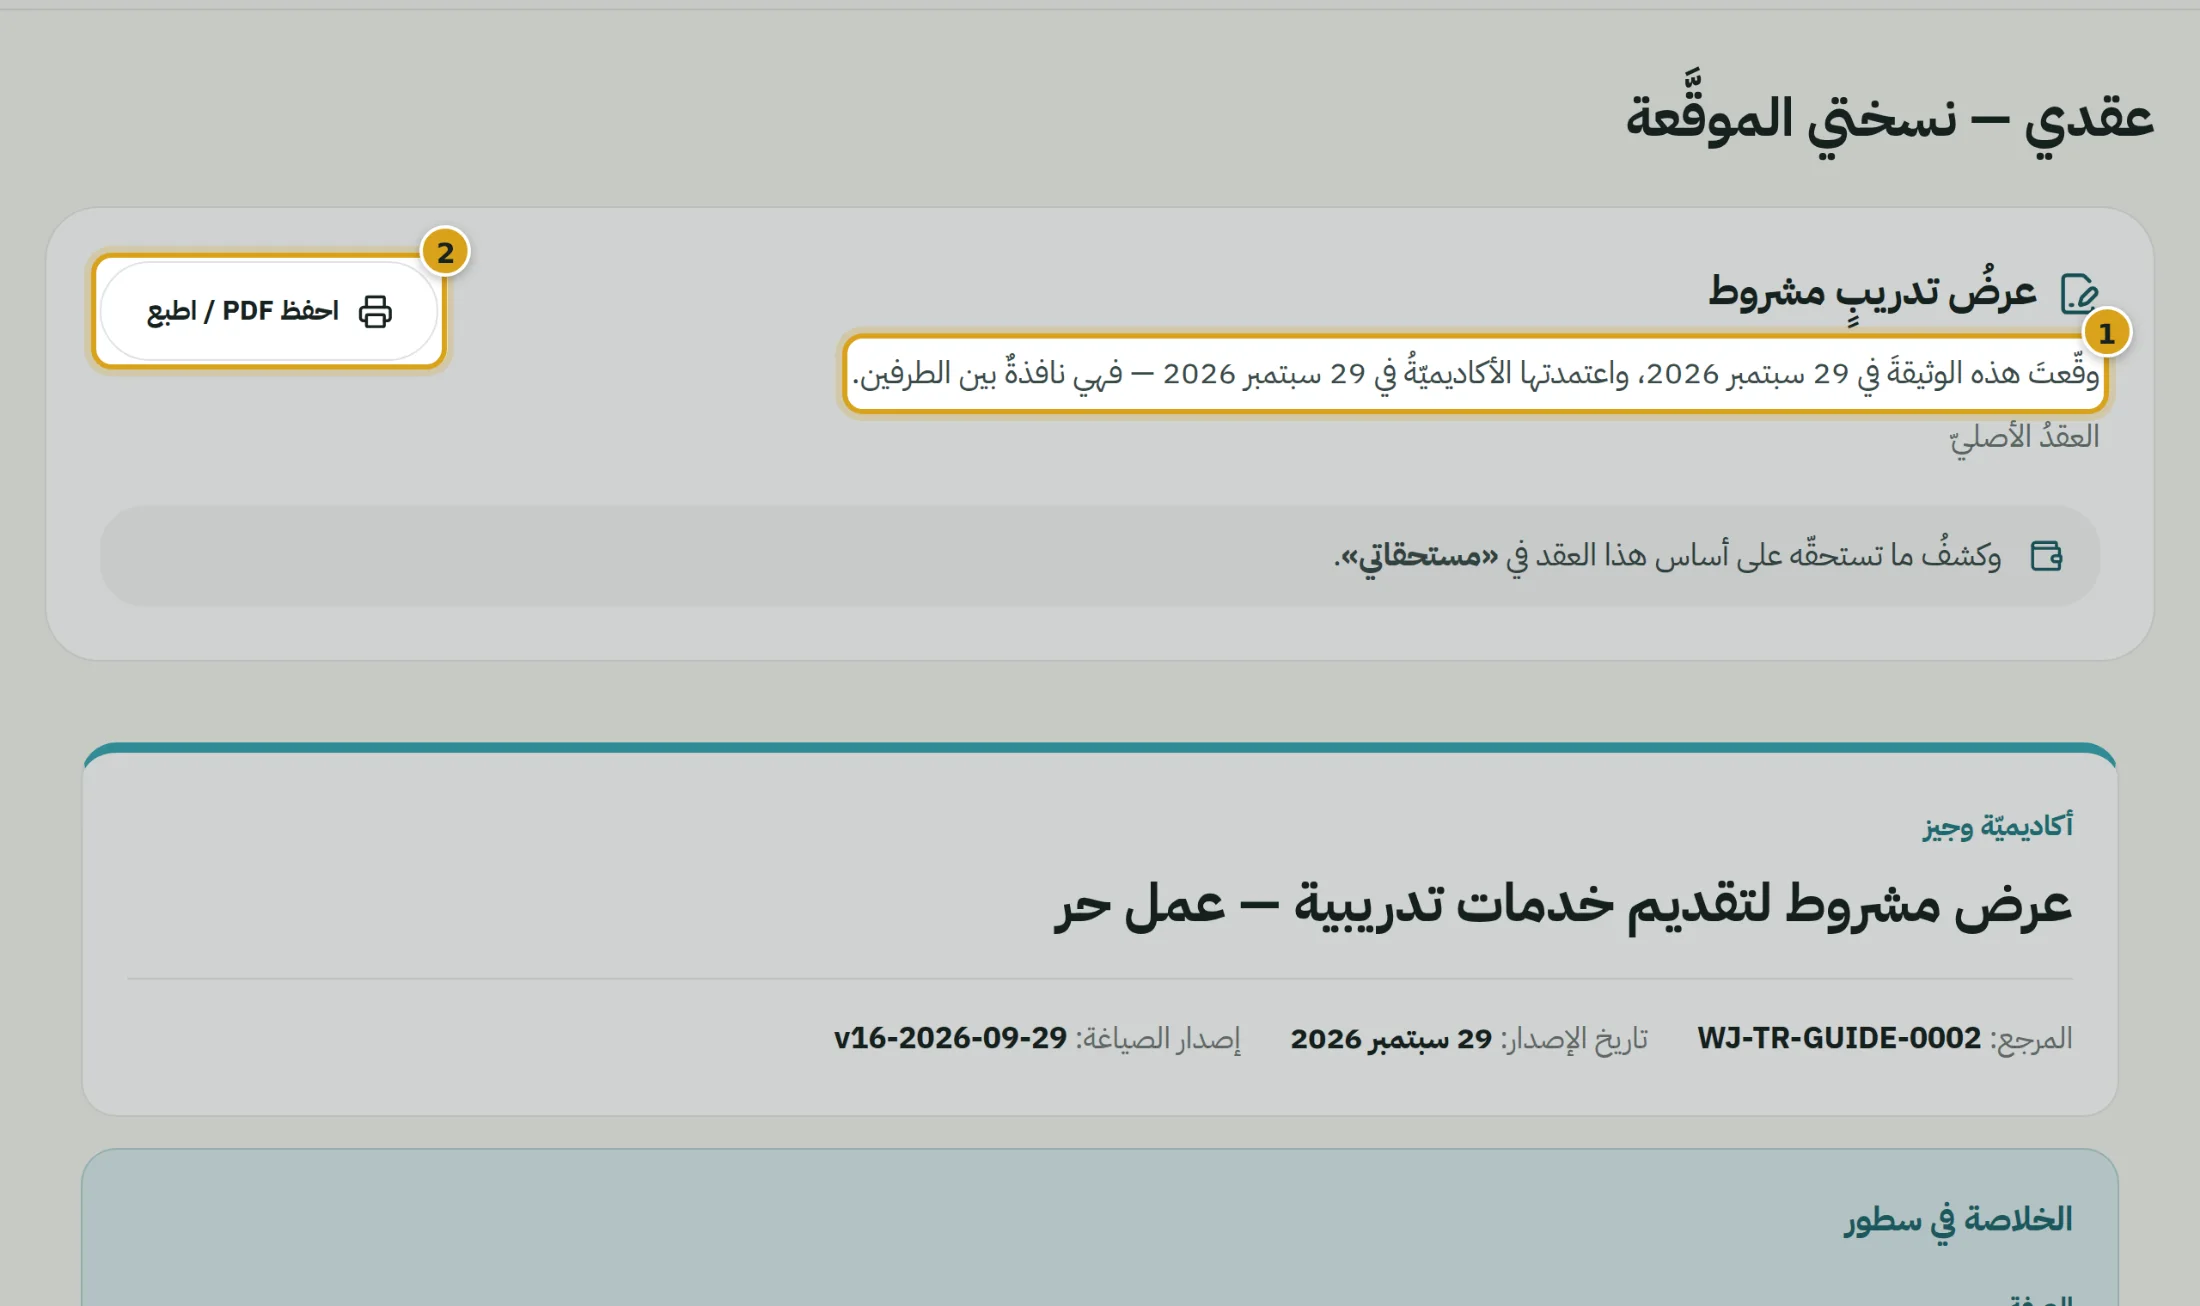
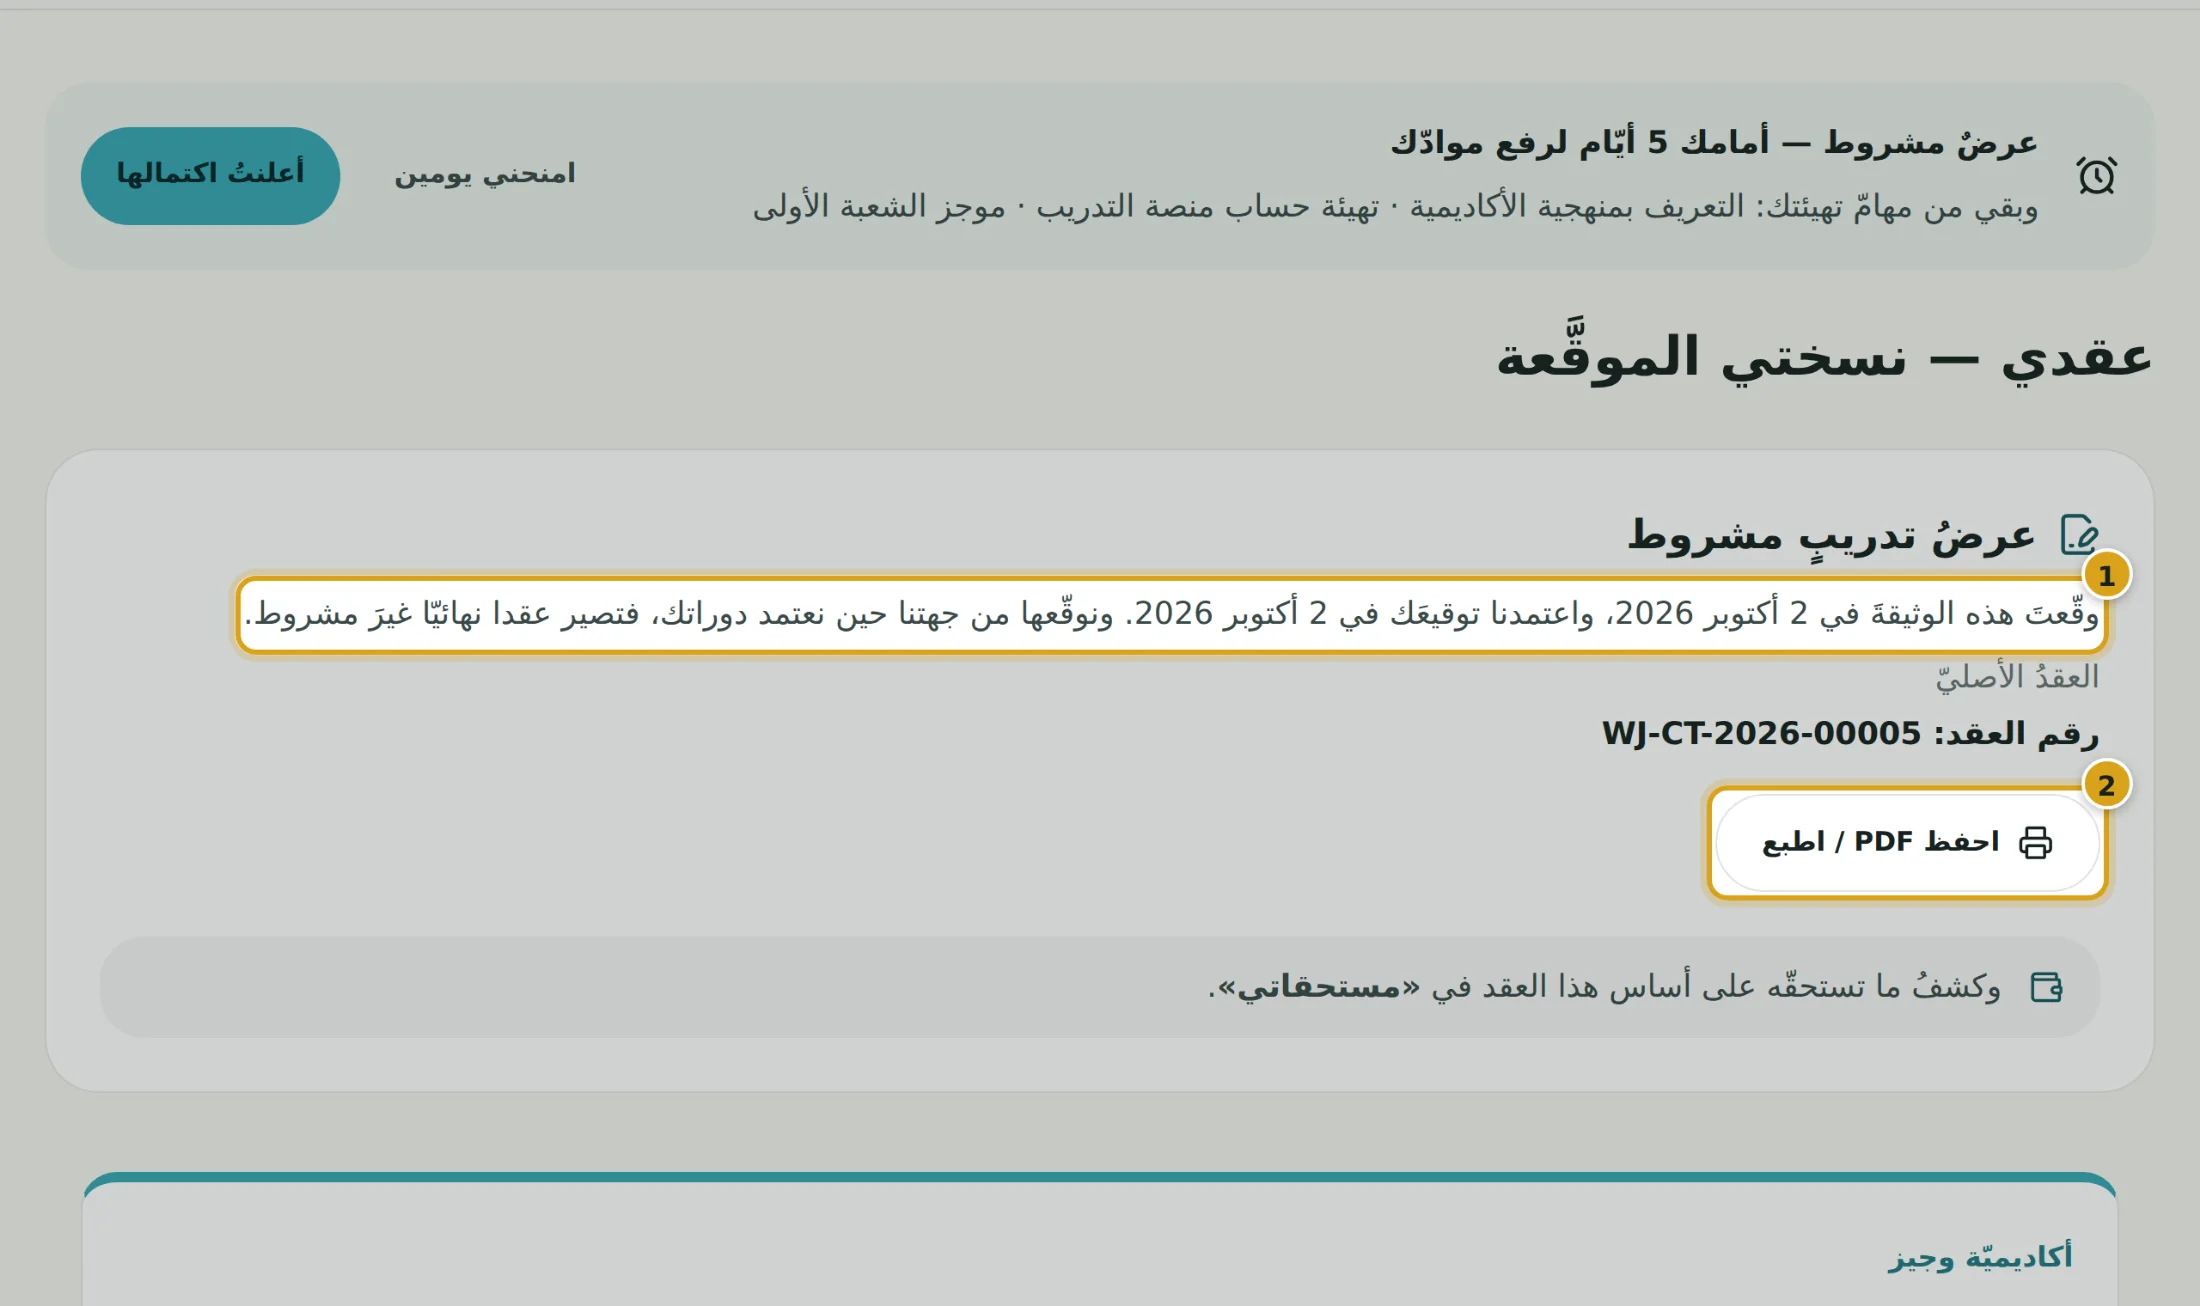
دليلُ المدرّب: صورةُ «عقدي» من طور الموادّ — «ونوقّعها من جهتنا حين نعتمد دوراتك»
كانت اللقطةُ من المدرّب النشط وعليها «واعتمدتها الأكاديميّةُ في… — فهي نافذةٌ بين
الطرفين» (التُقطت ٢٩ سبتمبر، وعليها رقمُ إصدار الصياغة الذي أُخفي بعدها). وقارئُ
الدليل في طور الموادّ: اعتمدنا توقيعَه ولم نوقّع العرض — فكان يرى في دليله غيرَ ما
يراه في بوّابته، وهو بعينه ما قرّر صاحبُ المنصّة نقضَه: لا نوقّع قبل أن نعتمد دوراته.

· capture.ts: لقطةُ `contract` تُصوَّر بحساب من اعتُمد توقيعُه الآن، وعلامتُها (1)
  على «ونوقّعها من جهتنا حين نعتمد دوراتك».
· content.ts: شرحُ الصورة «1 متى وقّعتَه ومتى اعتمدنا توقيعَك — ونوقّعه نحن حين
  نعتمد دوراتك».
· contract.webp أُعيد التقاطُها بـ`guide:shots --only contract` — والأبعادُ كما هي
  فلم يتغيّر البيان.

ولا يُكمل `guide:seed` بذرَ النشط: يقف عند خطّة الشعبة («ضع مشروعَ التخرّج») منذ صار
المشروعُ إلزاميّا (974aa864). عطبٌ قائمٌ خارج هذا التغيير، ولا يمسّ هذه اللقطة:
حسابا العقدين يُبذران قبله.

لا يمسّ رقما يقبضه أحد.

Claude-Session: https://claude.ai/code/session_011UMjQEVm9pbiu95VbZKXJc

diff --git a/scripts/trainer-guide/capture.ts b/scripts/trainer-guide/capture.ts
@@ -244,6 +244,26 @@ FRESH.push({
   },
 })
 
+/* ═══ «عقدي» تُصوَّر من هنا لا من النشط (١ أكتوبر ٢٠٢٦) ═══
+   قارئُ الدليل في طور الموادّ: اعتمدنا توقيعَه ولم نوقّع العرض. وكانت
+   اللقطةُ من النشط وعليها «فهي نافذةٌ بين الطرفين» — فيرى في دليله غيرَ ما
+   يراه في بوّابته، وهو بعينه ما قرّر صاحبُ المنصّة نقضَه: لا نوقّع قبل أن
+   نعتمد دوراته. */
+FRESH.push({
+  name: 'contract',
+  async run(e) {
+    const p = e.page
+    await open(e, '/trainer/contract')
+    await shoot(e, {
+      name: 'contract', clip: pageBody(p), clipPad: 6, maxHeight: 760,
+      marks: [
+        { target: p.getByText(/ونوقّعها من جهتنا حين نعتمد دوراتك/).first(), n: 1, pad: 5 },
+        { target: btn(p, /احفظ PDF/), n: 2, pad: 5 },
+      ],
+    })
+  },
+})
+
 /* ═══ ② المدرّبُ النشط ═══ */
 
 const ACTIVE: Shot[] = [
@@ -782,20 +802,6 @@ const ACTIVE: Shot[] = [
           marks: [{ target: p.getByRole('navigation', { name: 'تبويبات بوّابة المدرّب' }), n: 1, pad: 2 }],
         })
       } finally { await p.setViewportSize(before) }
-    },
-  },
-  {
-    name: 'contract',
-    async run(e) {
-      const p = e.page
-      await open(e, '/trainer/contract')
-      await shoot(e, {
-        name: 'contract', clip: pageBody(p), clipPad: 6, maxHeight: 760,
-        marks: [
-          { target: p.getByText(/فهي نافذةٌ بين الطرفين/).first(), n: 1, pad: 5 },
-          { target: btn(p, /احفظ PDF/), n: 2, pad: 5 },
-        ],
-      })
     },
   },
   {

diff --git a/src/data/trainer-guide/content.ts b/src/data/trainer-guide/content.ts
@@ -478,7 +478,7 @@ export const GUIDE_SECTIONS: GuideSection[] = [
        مع أحدٍ قبل أن يعتمد دوراته. فيُقال متى يقع توقيعُنا. */
     why: 'عقدُك كما وقّعتَه — ويصير بتوقيعنا وتاريخه حين نعتمد دوراتك. مرجعُك لكلّ رقمٍ ومهلةٍ في هذا الدليل.',
     blocks: [
-      { kind: 'figure', shot: 'contract', alt: 'صفحةُ العقد الموقَّع وزرُّ حفظه', caption: '1 متى وقّعتَه ومتى اعتمدنا توقيعَك · 2 «احفظ PDF / اطبع»' },
+      { kind: 'figure', shot: 'contract', alt: 'صفحةُ العقد الموقَّع وزرُّ حفظه', caption: '1 متى وقّعتَه ومتى اعتمدنا توقيعَك — ونوقّعه نحن حين نعتمد دوراتك · 2 «احفظ PDF / اطبع»' },
       { kind: 'p', text: 'فيه الخلاصةُ في سطور، ثمّ البنودُ كاملة، ثمّ سجلُّ التوقيع. وحين نعتمد دوراتك نوقّعه من جهتنا، فيصير عقدا نهائيّا غيرَ مشروط، ويُضاف إليه ملحقُ الدورات المعتمَدة لك.' },
       { kind: 'callout', tone: 'contract', title: 'التعديلُ بعد التوقيع', text: 'لا يُطلب تعديلُ العقد من البوّابة: ما يتغيّر بعد التوقيع يصلك ملحقا أو عقدا بديلا تقرؤه وتوقّعه.' },
     ],
